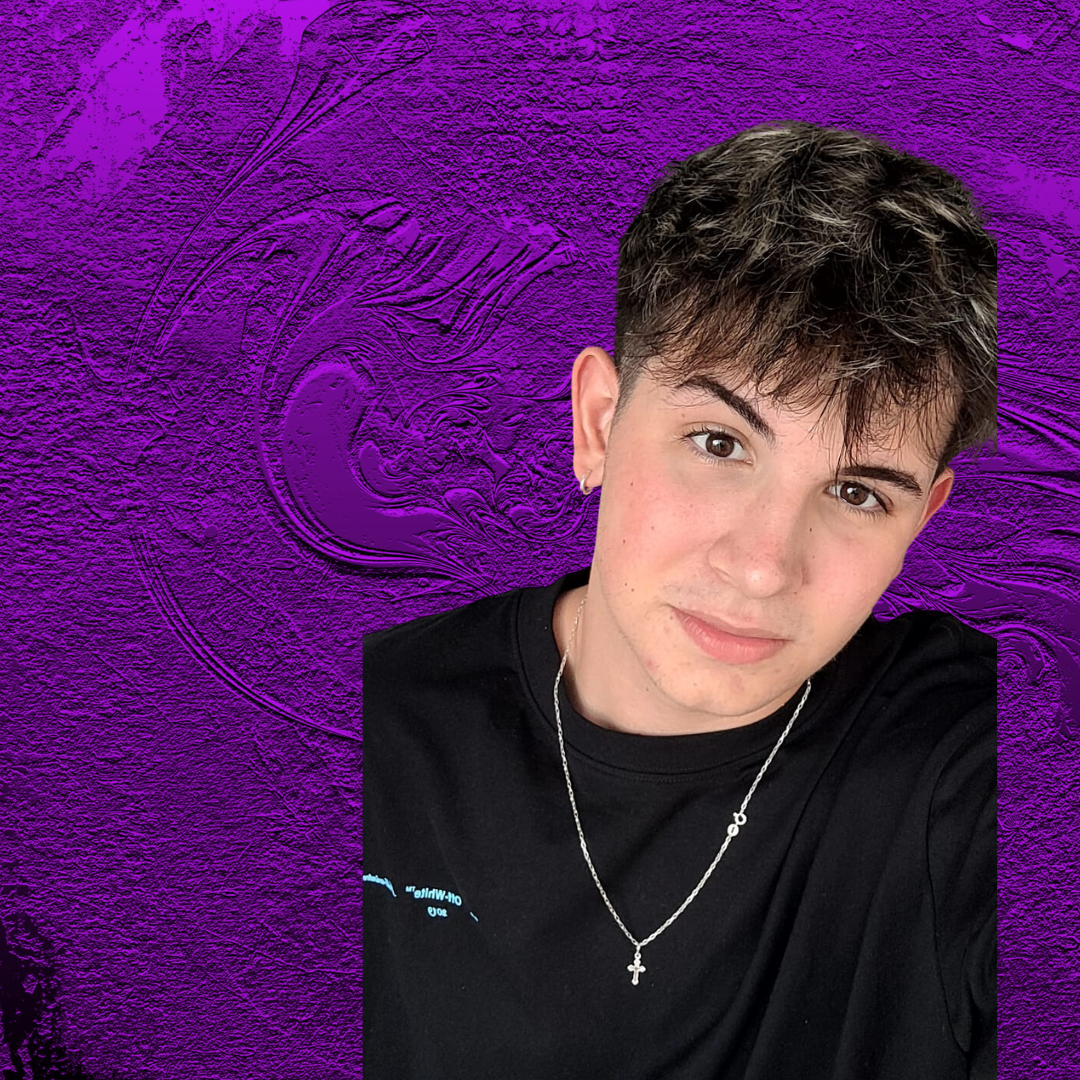
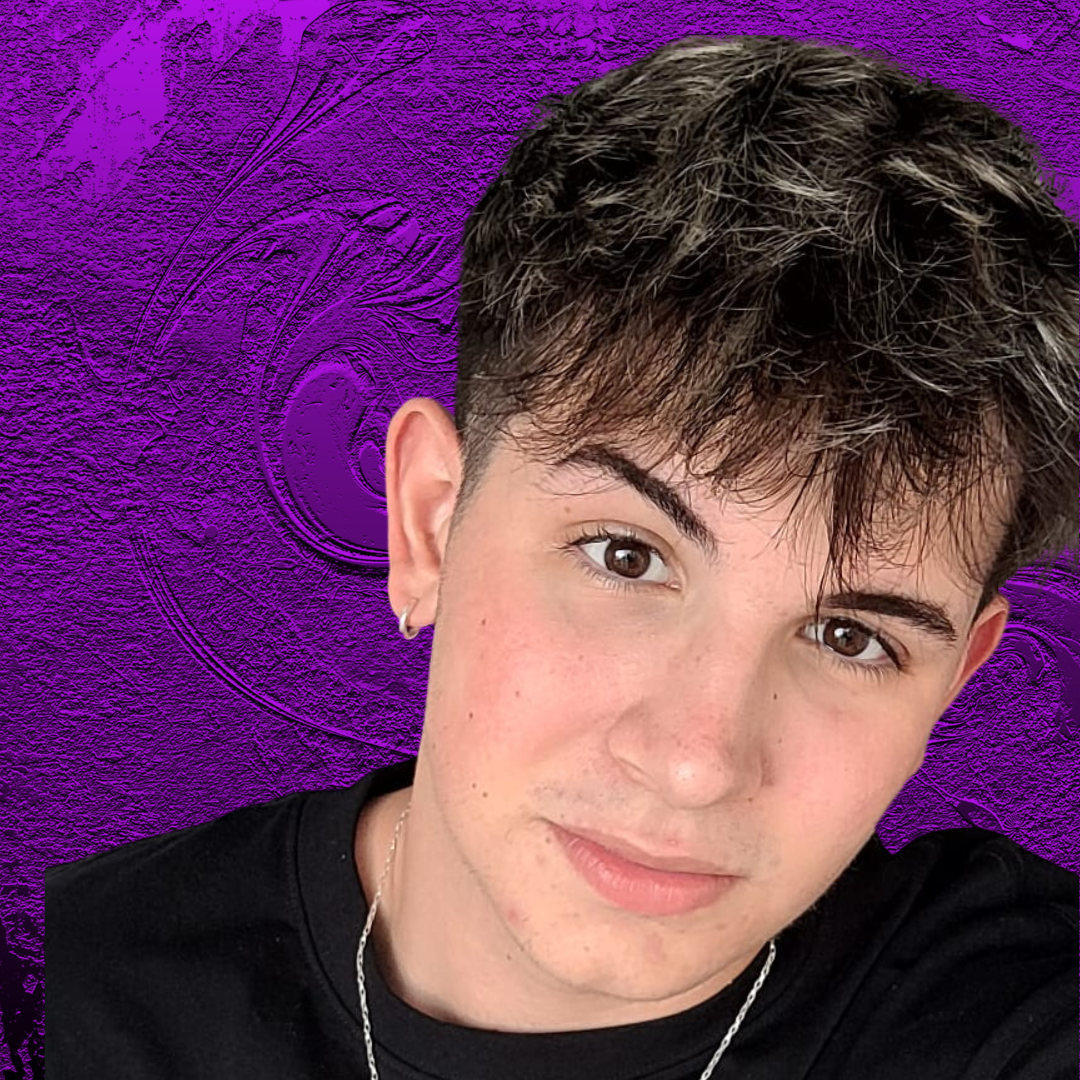
[update] atualizado foto perfil

diff --git a/src/app/components/about/about.component.html b/src/app/components/about/about.component.html
@@ -9,7 +9,7 @@
             </div>
             
         </div>
-        <a target="_blank" href="https://github.com/GabrielFasolim"><img class="picprofile" src="../../../assets/picprofile.png" alt="minha foto"></a>
+        <a target="_blank" href="https://github.com/GabrielFasolim"><img class="picprofile" src="../../../assets/picprofile2.png" alt="minha foto"></a>
     </div>    
     <div class="textAbout">
         <h3>About Me</h3>
